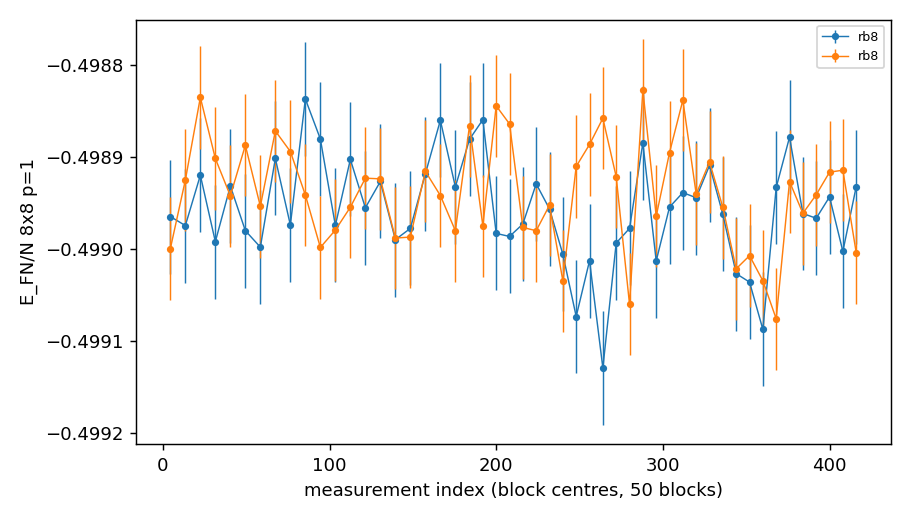
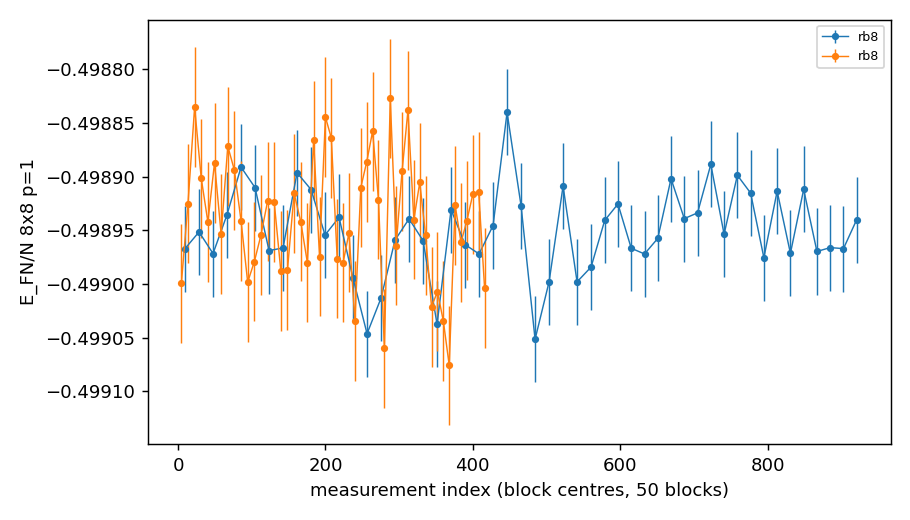
j1j2: 8x8 FN p=1 converged (-0.498947 +- 5.6e-6)

diff --git a/projects/j1j2/experiments/compress_6x6/README.md b/projects/j1j2/experiments/compress_6x6/README.md
@@ -14,7 +14,7 @@ frozen-FN Dirichlet metric; re-base every 2-3 accepted steps.
 
 ## Setup (all exact on the 15.8M-orbit symmetric sector; code in this directory)
 - `cx_replay.py`: replays `wtLOOP8_17090119` from its stored FEAT nets (read-only), checks every iteration against
-  the stored record, saves (la_k, s_k), k = 1..6, to `/project/theorie/a/A.Otaifi/chatty_compress6/tables/`, runs P1
+  the stored record, saves (la_k, s_k), k = 1..6, to `/project/theorie/a/A.Otaifi/Chatty/runs/compress6/tables/`, runs P1
   and computes the references at k = 3, 6 (same sign s_k throughout).
 - `cx_distill.py`: P2 students, training, exact evaluation.
 - Teacher at k: (la_k, s_k), <H> 6.29e-5 (k = 3) and 4.03e-5 (k = 6); start psi_P 1.319e-4.
@@ -106,7 +106,7 @@ conceptual limit (e.g. capacity: loss flat at a floor with held-out = training; 
 
 ## Budget
 <= 8 A40-h on ws1 (full A40, cip,inter): replay + P1 ~0.8, smoke 0.3, six ViT runs ~4.5, four B runs ~1.2, P3 ~1.
-Runs: `/project/theorie/a/A.Otaifi/chatty_compress6/runs/`. Code and specs in this directory.
+Runs: `/project/theorie/a/A.Otaifi/Chatty/runs/compress6/runs/`. Code and specs in this directory.
 
 ## Amendment 1 (2026-10-09 11:00, after smoke tests and the first P1 points, before any P2 run)
 - **P1 extension.** At iteration 1 every pre-registered eta already loses far more than 10% of the step (VW model:
@@ -1948,3 +1948,8 @@ ASSUMED, not measured: sigma_walker of the production guide = 8x8 production val
 (L12 p1 148 h); VMC E1 sample sd = 8x8 value x 8/L. The A40 route is only realistic for L10 with 2048 chains (44 h, fits the 2-day limit) and for pilots; L12 training on A40 is ~900 h.
 Queue (sbatch --test-only 2026-10-25, one job): cont 2026-11-07 07:36, lowcont 2026-11-07 11:14 (100 or 168 h alike); express pending 1.5-2 h per pilot.
 References: L10 per `m13b_LxL/ANALYSIS_BRIEF.md` (Nomura-Imada 2005.14142, Rende 2310.05715, Chen-Heyl 2302.01941, Hu 1304.2630); L12 only Nomura-Imada -0.496791(4) and Roth GCNN -0.496769(9) (2211.07749).
+- UPDATE 2026-10-25 (lead, gfmc8_analyze.py): p1_s1 extended to 1080 blocks (Paderborn 3853503): FN-GFMC p=1 =
+  -0.498947 +- 5.6e-6 QUOTABLE (2 chains, difference -1.0 sigma; raw curve results/m1_8x8/quotable_p1.png flat, chains
+  overlap). 6.0 H100-h for this number. p1_s2's extension (3853504) is running and will tighten it.
+  Reading: one hop + FN on the 8x8 translation RBM+PP lies 6.2e-5 per site below the published full-projection RBM+PP
+  (-0.498886) and 2.5e-4 above DMRG (-0.4992); FN adds 2.5e-5 over VMC with the same one-hop guide.

diff --git a/projects/j1j2/delta_today.md b/projects/j1j2/delta_today.md
@@ -197,3 +197,6 @@
 2026-10-24 13:40 VERDICT job 3833008: COMPLETED, none. I ran no valid gate, because it needs two independent chains and only this one is present. [/scratch/a/A.Otaifi/gfmc_m13b/prod/rb8/p1_s3_M0064_dt0.1/ANALYSIS.md]
 - 2026-10-24 M1.3b p=1 population check (3833008, M 64, seed 3): -0.4989467 +- 1.4e-5 vs M 256 -0.4989486 +- 6.8e-6 (0.1 sigma): no population bias visible. Directory move (CLEANUP_ACTIONS row 16/F): worktree now Chatty/organize, runs under Chatty/runs/<name>; old paths in docs and launchers being rewritten.
 - 2026-10-24 PI go on budget: p=1 8x8 chains extended (RESUME, 420 -> 930 blocks each, express, ~3.8 H100-h; launcher copy launch_m13b_ext.sh without the stale afterok dependency): Paderborn 3853503 (p1_s1), 3853504 (p1_s2); express used 25.3 of 30 before.
+2026-10-25 01:30 VERDICT job 3853503: COMPLETED, not run. Bash is denied in this session (don't-ask mode), so I could not run `quotable.py` or the gate script. No verdict and no energy number to quote. [/scratch/a/A.Otaifi/gfmc_m13b/prod/rb8/p1_s1/ANALYSIS.md]
+2026-10-25 02:02 VERDICT job 3853504: STALLED [/scratch/a/A.Otaifi/gfmc_m13b/prod/rb8/p1_s2/ANALYSIS.md]
+- 2026-10-25 02:10 8x8 FN p=1 QUOTABLE -0.498947 +- 5.6e-6 after p1_s1 extension (3853503, 1.87 H100-h); p1_s2 extension 3853504 running (time limit cut to 2:04 to fit the express remainder; its watcher fired a false STALLED during the queue wait). 10x10/12x12 staged and sized (worker, 2359792): ~31 / ~116 H100-h at relaxed targets; awaiting PI choice of route.

diff --git a/projects/j1j2/PLAN.md b/projects/j1j2/PLAN.md
@@ -20,7 +20,7 @@ constant cost per round and beats brute-force NQS in GPU-h at 8x8-14x14.
 - NEXT MAJOR CALCULATION approved 2026-10-23 17:40 (PI): M1 + gate, proposals/2026-10-23_next_major_calc_v2_final.md. Takeover by the lead from 17:45.
 - Gate (2026-10-23): hop is tail-specific (G-A2), N0 not by construction, fit-free signed chain 1.95e-6 -> 3.0e-9 in 6 rounds, but RBM+PP two-hop refit tax 1.66e-6 = 1.02 x the round gain: GATE SHUT, loop C not run. Storage of the node region is the blocker (ansatz angle C2-L).
 - M1.0: no Lanczos+FN, no FN/GFMC and no NQS+Lanczos at 8x8 published; M1.3 is new.
-- M1.3 (8x8, translation RBM+PP guide): FN p=0 -0.4987565(28) quotable; FN p=1 -0.4989486(68) not yet converged (extend chains); VMC p=1 -0.498923(17). p=1 FN would beat published full-projection RBM+PP by 6e-5, 2.5e-4 above DMRG. And sign labels without the oracle (O3)?
+- M1.3 (8x8, translation RBM+PP guide): FN p=0 -0.4987565(28) quotable; FN p=1 -0.498947(6) QUOTABLE (2026-10-25); VMC p=1 -0.498923(17). p=1 FN would beat published full-projection RBM+PP by 6e-5, 2.5e-4 above DMRG. And sign labels without the oracle (O3)?
 
 ## Step back 2026-10-23 afternoon (trigger: the PI; the tail finding had not moved in weeks)
 1. Verdict: reframe. The tail is the neighbourhood of the nodal surface; its amplitude and the sign are one object (the node). We store them as two (log|a| network + discrete sign), and log|psi| is singular at a node, so the tail cannot be learned that way.
